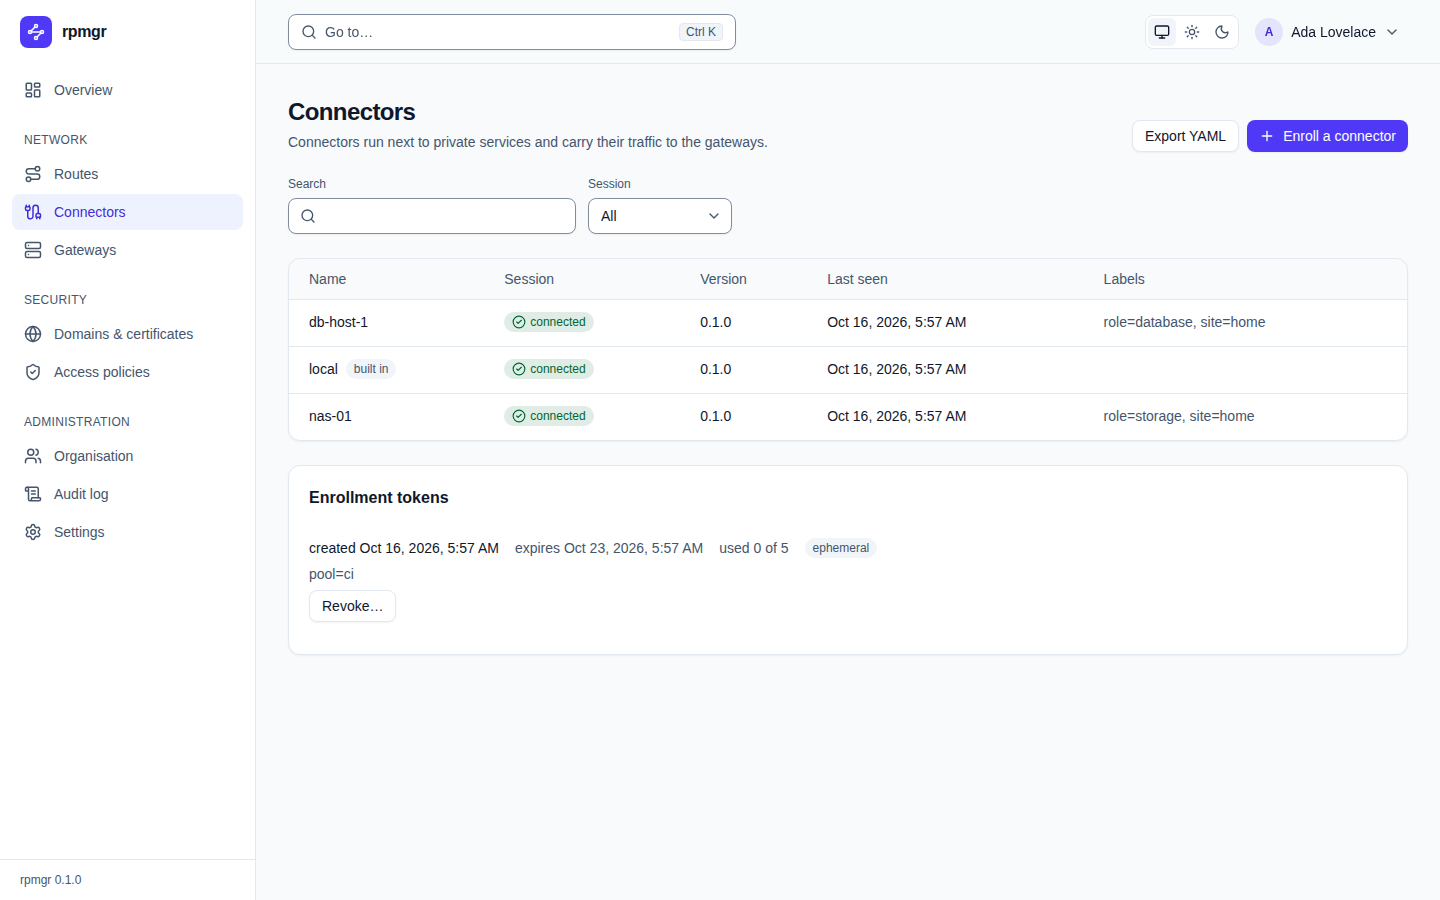
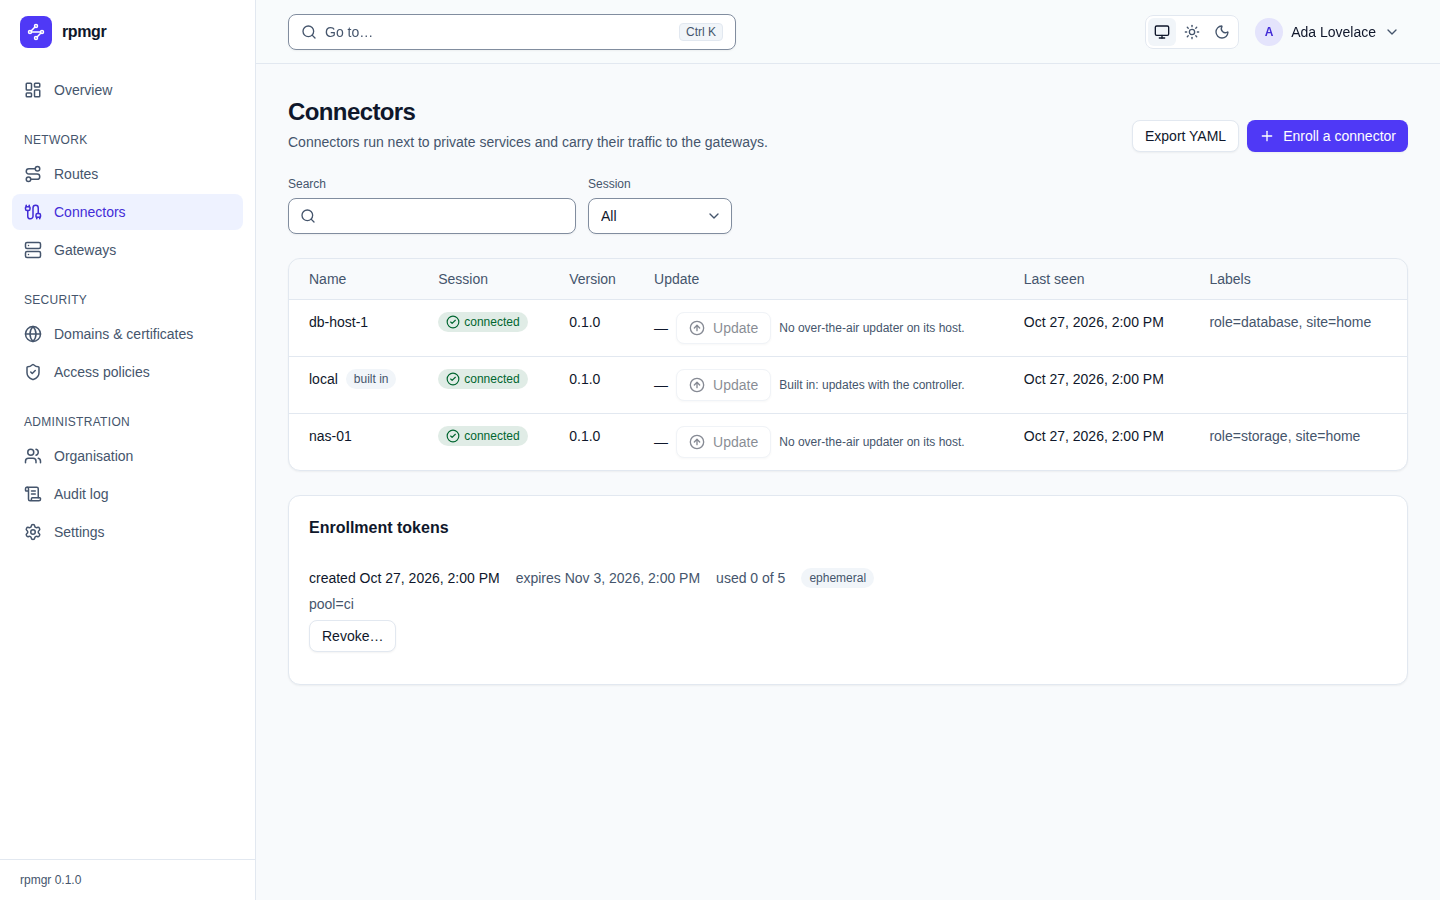
fix(web): keep the update button beside the agent's update state
In the connector and gateway lists the update cell stacked its parts,
so the Update button sat on a line of its own below the update state,
unlike on the connector's page. It now lays them out in one line and
wraps only when the cell is too narrow.

diff --git a/web/src/pages/gateways.tsx b/web/src/pages/gateways.tsx
@@ -195,7 +195,7 @@ export function GatewayGroupPage() {
                   <TD><GatewayChip gateway={g} /></TD>
                   <TD>{g.status?.version}</TD>
                   <TD>
-                    <span className="grid justify-items-start gap-1">
+                    <span className="flex flex-wrap items-center gap-2">
                       <UpdateState target={updates.get(g.id)} belowMinimum={g.status?.belowMinAgentVersion} goodbyeReason={g.status?.lastGoodbyeReason} />
                       <UpdateButton target={updates.get(g.id)} agent={{ id: g.id, version: g.status?.version ?? "", online: !!g.status?.connected,
                         builtIn: g.builtIn, enrolled: !!g.status?.enrolled, overTheAir: !!g.status?.overTheAir }} />

diff --git a/web/src/pages/connectors.tsx b/web/src/pages/connectors.tsx
@@ -130,7 +130,7 @@ export function Connectors() {
                 <TD><SessionChip connector={c} /></TD>
                 <TD>{c.session?.version}</TD>
                 <TD>
-                  <span className="grid justify-items-start gap-1">
+                  <span className="flex flex-wrap items-center gap-2">
                     <UpdateState target={updates.get(c.id)} belowMinimum={c.session?.belowMinAgentVersion} goodbyeReason={c.session?.lastGoodbyeReason} />
                     <UpdateButton agent={updatableConnector(c)} target={updates.get(c.id)} />
                   </span>
